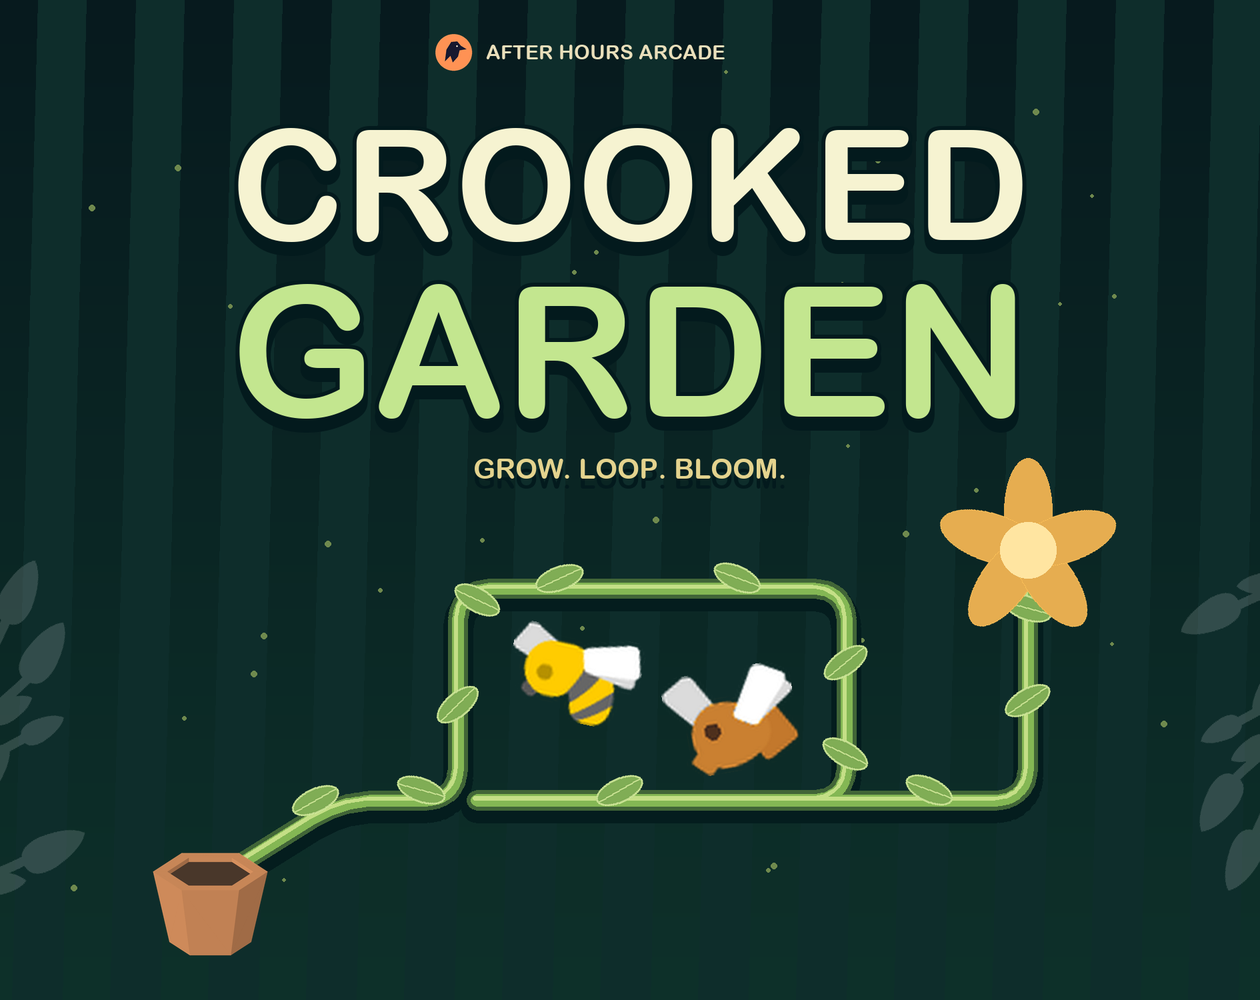
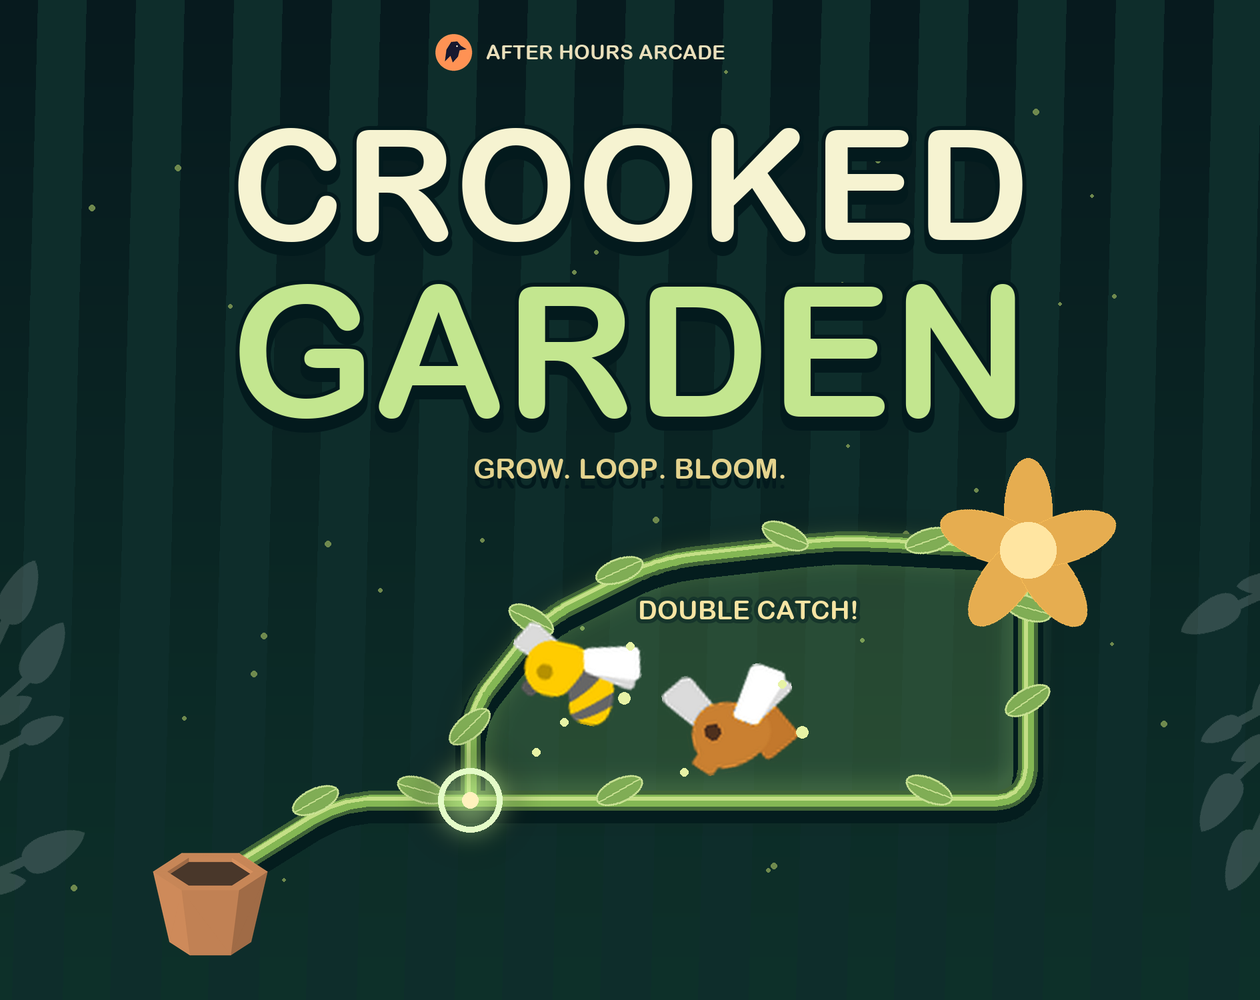
Clarify the cover's closed-loop double capture

Changed region(s): [[0.3405, 0.527, 0.8048, 0.837]]

diff --git a/scripts/make-cover.py b/scripts/make-cover.py
@@ -51,8 +51,9 @@ for _ in range(38):
     r=random.choice([.7,1,1.4])*S
     draw.ellipse((x*S-r,y*S-r,x*S+r,y*S+r), fill=(111,137,78,150))
 
-# Rounded, deliberately crooked stem with a visible loop.
-points=[(105,441),(171,400),(229,400),(229,294),(423,294),(423,400),(229,400),(514,400),(514,275)]
+# Trace one continuous vine: up to the flower, around both bugs, then back
+# onto the older horizontal stem at (235, 400), as an actual capture closes.
+points=[(105,441),(171,400),(514,400),(514,275),(420,270),(330,280),(270,310),(235,355),(235,400)]
 def rounded_path(points, radius=18):
     result=[points[0]]
     for i in range(1,len(points)-1):
@@ -68,9 +69,17 @@ def rounded_path(points, radius=18):
     result.append(points[-1])
     return [(round(x*S),round(y*S)) for x,y in result]
 path=rounded_path(points)
+enclosure=rounded_path([(235,400),(514,400),(514,275),(420,270),(330,280),(270,310),(235,355),(235,400)])
+capture=Image.new('RGBA',image.size)
+cd=ImageDraw.Draw(capture)
+cd.polygon(enclosure,fill=(160,219,107,24))
+cd.line(enclosure,fill=(186,238,136,130),width=9*S,joint='curve')
+image.alpha_composite(capture.filter(ImageFilter.GaussianBlur(7*S)))
+image.alpha_composite(capture)
+draw=ImageDraw.Draw(image)
 for color,width,offset in [('#041d1e',15,(0,4)),('#416537',10,(0,0)),('#84b754',6,(0,0)),('#c4df86',2,(-1,-1))]:
     draw.line([(x+offset[0]*S,y+offset[1]*S) for x,y in path], fill=color, width=width*S, joint='curve')
-for x,y,angle in [(158,405,25),(211,400,-20),(229,357,40),(239,305,-30),(280,294,20),(369,294,-25),(423,336,35),(423,382,-30),(310,400,25),(465,400,-25),(514,355,30),(514,309,-20)]:
+for x,y,angle in [(158,405,25),(211,400,-20),(235,368,40),(266,315,-30),(310,290,20),(393,273,-25),(465,275,15),(310,400,25),(465,400,-25),(514,355,30),(514,309,-20)]:
     leaf=Image.new('RGBA',(30*S,18*S))
     ld=ImageDraw.Draw(leaf)
     ld.ellipse((2*S,3*S,27*S,15*S),fill='#80ad55',outline='#bed88b',width=S)
@@ -90,9 +99,21 @@ image.alpha_composite(flower,(454*S,215*S))
 sprite('bee-flight-2.png',(287,338),66,-12)
 sprite('fly-flight-1.png',(366,360),65,10)
 
+# Bright join cue and conversion particles make the closure read at thumbnail size.
+glow=Image.new('RGBA',image.size);gd=ImageDraw.Draw(glow)
+gd.ellipse((214*S,379*S,256*S,421*S),fill=(206,251,155,130))
+image.alpha_composite(glow.filter(ImageFilter.GaussianBlur(8*S)))
+draw=ImageDraw.Draw(image)
+draw.ellipse((219*S,384*S,251*S,416*S),outline='#e4fbc7',width=3*S)
+draw.ellipse((231*S,396*S,239*S,404*S),fill='#fff1bd')
+for x,y,r in [(268,376,2),(282,361,2),(312,349,3),(342,386,2),(391,342,2),(401,366,3),(315,323,2)]:
+    draw.ellipse(((x-r)*S,(y-r)*S,(x+r)*S,(y+r)*S),fill='#e7f3a5')
+
 font_path=Path('/System/Library/Fonts/Supplemental/Arial Rounded Bold.ttf')
 if not font_path.exists():
     font_path=Path('/usr/share/fonts/truetype/dejavu/DejaVuSans-Bold.ttf')
+capture_font=ImageFont.truetype(str(font_path),13*S)
+draw.text((374*S,305*S),'DOUBLE CATCH!',anchor='mm',font=capture_font,fill='#f6e4a3',stroke_width=2*S,stroke_fill='#16352b')
 def text_center(text,y,size,color,stroke=0):
     font=ImageFont.truetype(str(font_path),size*S)
     box=font.getbbox(text);x=(W*S-(box[2]-box[0]))/2

diff --git a/plan.md b/plan.md
@@ -2,6 +2,8 @@
 
 ## User intent and current direction
 
+Cover correction: user noted the initial cover did not clearly depict a proper loop capture. Revised both cover exports to trace one continuous vine from the pot to the flower, around both bugs and back onto older stem. Added a visible join ring, enclosed-area glow, conversion particles and DOUBLE CATCH feedback. Promotional artwork only; game/build unchanged.
+
 Cover/animated-guide follow-up: created `screenshots/cover-630x500.png` for itch plus a 1260×1000 master, with large game title, studio logo, original forest/vine/flower shapes and credited real bug/planter art. Composition is promotional artwork, not a screenshot. `scripts/make-cover.py` reproduces it. How to Play now uses three small real-play GIFs (grow/capture/Burst, under 1 MB combined) with readable loop holds; Pause clips switches to stills, reduced motion starts static, leaving the guide unloads animation. Raw captured frames stay ignored; recorder/encoder and GIF/hash manifests are retained. No gameplay rules changed. Validation: 80 unit tests, full browser suite including animation toggle/reduced-motion fallback and 11 layouts, plus cover/GIF frame visual review. Local preview reopened on How to Play.
 
 Guide-layout correction: user found the first crop/card treatment poor. Reworked How to Play into four numbered, full-width walkthrough sections with text beside generously sized imagery, isolated/labeled flower-water details, larger contextual before/after loop panels and mobile stacking. Removed the old button collage in favour of readable Pause/Rewind labels. Five derived PNGs now ship; no forced image heights/letterboxed uniform cards. Instructions stay brief and gameplay/navigation behaviour is unchanged.

diff --git a/screenshots/README.md b/screenshots/README.md
@@ -7,6 +7,8 @@
 
 The cover is composed promotional artwork, not a gameplay screenshot: original vine/flower/forest shapes, the game's credited Kenney sprites, and After Hours Arcade's raven mark. Hunter colours match the game. Regenerate with `python3 scripts/make-cover.py` (Pillow; uses local Arial Rounded Bold on macOS, DejaVu Sans Bold fallback on Linux).
 
+The vine reconnects to its older horizontal stem at the bright join ring, enclosing both bugs. The glow and DOUBLE CATCH label depict the capture moment.
+
 ## Gameplay captures
 
 Captured from the current game through browser pointer/keyboard controls, using reproducible swarm seeds (44 for the capture run, 99 for the two-flower/live-bug run). Gameplay state was not injected, and no bugs were pasted into the originals. Originals are captured at 2× resolution.
